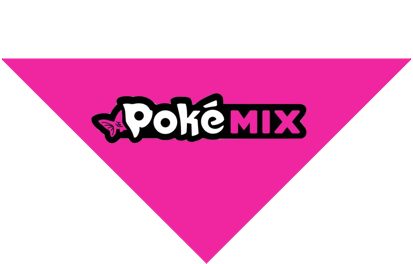
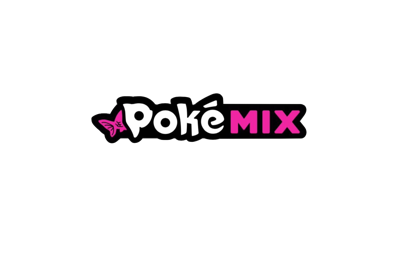
Finished Our food section

diff --git a/index.html b/index.html
@@ -82,8 +82,8 @@
                                         <li><a href="#slider">Home</a></li>
                                         <li><a href="#features">What's Poke?</a></li>
                                         <li><a href="#ourPakeg">Menu</a></li>
-                                        <li><a href="#abouts">About Us</a></li>
-                                        <li><a href="#portfolio">Social</a></li>
+                                        <li><a href="#abouts">Our Story</a></li>
+                                        <li><a href="#portfolio">Our Food</a></li>
                                         <!-- <li><a href="#mobaileapps">Pages</a></li> -->
                                         <!-- <li><a href="#" class="booking">Table Booking</a></li> -->
                                     </ul>
@@ -102,7 +102,8 @@
                         <div class="main_slider text-center">
                             <div class="col-md-12">
                                 <div class="main_slider_content wow zoomIn" data-wow-duration="1s">
-                                    <h1>Poke Mix</h1>
+                                    <!-- <h1>Poke Mix</h1> -->
+                                    <img src="assets/images/pokemixbanner.png" alt="" />
                                     <!-- <p>What's in your mix?</p> -->
                                     <!-- <button href="" class="btn-lg">Click here</button> -->
                                 </div>
@@ -223,19 +224,15 @@
                     <div class="abouts_content">
                         <div class="col-md-6">
                             <div class="single_abouts_text text-center wow slideInLeft" data-wow-duration="1s">
-                                <img src="assets/images/ab.png" alt="" />
+                                <img src="assets/images/aboutus.jpg" alt="" />
                             </div>
                         </div>
 
                         <div class="col-md-6">
                             <div class="single_abouts_text wow slideInRight" data-wow-duration="1s">
-                                <h4>About us</h4>
-                                <h3>WE ARE TASTY</h3>
-                                <p>Lorem Ipsum is simply dummy text of the printing and typesetting industry. Lorem Ipsum has been the industry's stan</p>
-
-                                <p>dard dummy text ever since the 1500s,when an unknown printer took a galley of type and scrambled it to make a type specimen book. It has survived not only five centuries, but also the leap into electronic typesettingdard dummy text ever since the 1500s,when an unknown printer took a galley of type and scrambled it to make a type specimen book. It has survived not only five centuries, but also the leap into electronic typesetting</p>
-
-                                <a href="" class="btn btn-primary">click here</a>
+                                <h4>Our Story</h4>
+                                <p>Founded in 2017, Poke Mix was created by our founders who love and and enjoyed delicious foods from all over the world. Our goal was to bring the great taste of an Hawaiian dish to Wichita, KS. Inspired by fresh, sustainable, and natural ingredients, we ensure that our seafood is the freshest of quality. </p>
+                                <p>We strive to give Wichita cuisines from all over the world at a great price and within a great atmosphere. All are welcome partake in this great island favorite.</p>
                             </div>
                         </div>
                     </div>
@@ -249,73 +246,72 @@
                     <div class="portfolio_content text-center  wow fadeIn" data-wow-duration="5s">
                         <div class="col-md-12">
                             <div class="head_title text-center">
-                                <h4>Delightful</h4>
-                                <h3>Experience</h3>
+                                <h4>Our Food</h4>
                             </div>
 
                             <div class="main_portfolio_content">
                                 <div class="col-md-3 col-sm-4 col-xs-6 single_portfolio_text">
-                                    <img src="assets/images/p1.png" alt="" />
+                                    <img src="assets/images/pm1.png" alt="" />
                                     <div class="portfolio_images_overlay text-center">
-                                        <h6>Italian Source Mushroom</h6>
-                                        <p class="product_price">$12</p>
-                                        <a href="" class="btn btn-primary">Click here</a>
+                                        <!-- <h6>Italian Source Mushroom</h6> -->
+                                        <p class="product_price">Aloha</p>
+                                        <!-- <a href="" class="btn btn-primary">Click here</a> -->
                                     </div>
                                 </div>
                                 <div class="col-md-3 col-sm-4 col-xs-6 single_portfolio_text">
-                                    <img src="assets/images/p2.png" alt="" />
+                                    <img src="assets/images/pm2.png" alt="" />
                                     <div class="portfolio_images_overlay text-center">
-                                        <h6>Italian Source Mushroom</h6>
-                                        <p class="product_price">$12</p>
-                                        <a href="" class="btn btn-primary">Click here</a>
+                                        <!-- <h6>Italian Source Mushroom</h6> -->
+                                        <p class="product_price">Ono</p>
+                                        <!-- <a href="" class="btn btn-primary">Click here</a> -->
                                     </div>
                                 </div>
                                 <div class="col-md-3 col-sm-4 col-xs-6 single_portfolio_text">
-                                    <img src="assets/images/p3.png" alt="" />
+                                    <img src="assets/images/pm3.png" alt="" />
                                     <div class="portfolio_images_overlay text-center">
-                                        <h6>Italian Source Mushroom</h6>
-                                        <p class="product_price">$12</p>
-                                        <a href="" class="btn btn-primary">Click here</a>
+                                        <!-- <h6>Italian Source Mushroom</h6> -->
+                                        <p class="product_price">Ohana</p>
+                                        <!-- <a href="" class="btn btn-primary">Click here</a> -->
                                     </div>
                                 </div>
                                 <div class="col-md-3 col-sm-4 col-xs-6 single_portfolio_text">
-                                    <img src="assets/images/p4.png" alt="" />
+                                    <img src="assets/images/pm4.png" alt="" />
                                     <div class="portfolio_images_overlay text-center">
-                                        <h6>Italian Source Mushroom</h6>
-                                        <p class="product_price">$12</p>
-                                        <a href="" class="btn btn-primary">Click here</a>
+                                        <!-- <h6>Italian Source Mushroom</h6> -->
+                                        <p class="product_price">Mahalo</p>
+                                        <!-- <a href="" class="btn btn-primary">Click here</a> -->
                                     </div>
                                 </div>
                                 <div class="col-md-3 col-sm-4 col-xs-6 single_portfolio_text">
-                                    <img src="assets/images/p5.png" alt="" />
+                                    <img src="assets/images/pm5.png" alt="" />
                                     <div class="portfolio_images_overlay text-center">
-                                        <h6>Italian Source Mushroom</h6>
-                                        <p class="product_price">$12</p>
-                                        <a href="" class="btn btn-primary">Click here</a>
+                                        <!-- <h6>Italian Source Mushroom</h6> -->
+                                        <p class="product_price">Sunset</p>
+                                        <!-- <a href="" class="btn btn-primary">Click here</a> -->
                                     </div>
                                 </div>
                                 <div class="col-md-3 col-sm-4 col-xs-6 single_portfolio_text">
-                                    <img src="assets/images/p6.png" alt="" />
+                                    <img src="assets/images/pm6.png" alt="" />
                                     <div class="portfolio_images_overlay text-center">
-                                        <h6>Italian Source Mushroom</h6>
-                                        <p class="product_price">$12</p>
-                                        <a href="" class="btn btn-primary">Click here</a>
+                                        <!-- <h6>Italian Source Mushroom</h6> -->
+                                        <p class="product_price">Hot Cheeto Burrito</p>
+                                        <!-- <a href="" class="btn btn-primary">Click here</a> -->
                                     </div>
                                 </div>
                                 <div class="col-md-3 col-sm-4 col-xs-6 single_portfolio_text">
-                                    <img src="assets/images/p7.png" alt="" />
+                                    <img src="assets/images/pm7.png" alt="" />
                                     <div class="portfolio_images_overlay text-center">
-                                        <h6>Italian Source Mushroom</h6>
-                                        <p class="product_price">$12</p>
-                                        <a href="" class="btn btn-primary">Click here</a>
+                                        <!-- <h6>Italian Source Mushroom</h6> -->
+                                        <p class="product_price">Seafood Nachos</p>
+                                        <!-- <a href="" class="btn btn-primary">Click here</a> -->
                                     </div>
                                 </div>
                                 <div class="col-md-3 col-sm-4 col-xs-6 single_portfolio_text">
-                                    <img src="assets/images/p8.png" alt="" />
+                                    <img src="assets/images/pm8.png" alt="" />
                                     <div class="portfolio_images_overlay text-center">
-                                        <h6>Italian Source Mushroom</h6>
-                                        <p class="product_price">$12</p>
-                                        <a href="" class="btn btn-primary">Click here</a>
+                                        <!-- <h6>Italian Source Mushroom</h6> -->
+                                        <p class="product_price">Taiwanese Shaved Ice</p>
+                                        <!-- <a href="" class="btn btn-primary">Click here</a> -->
                                     </div>
                                 </div>
                             </div>
